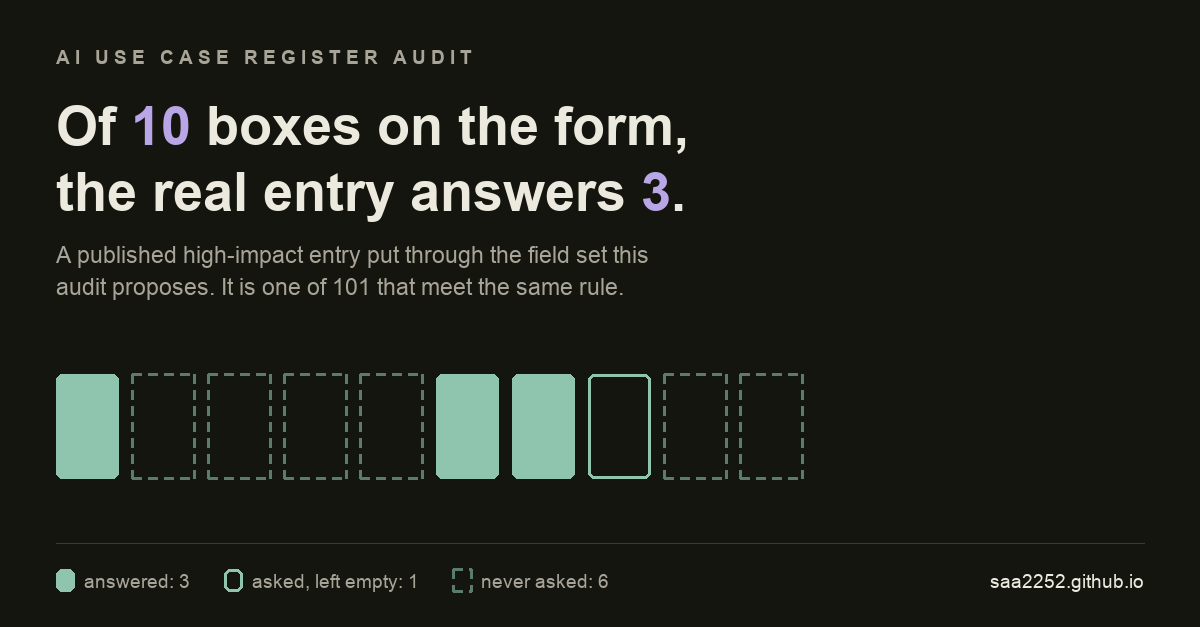
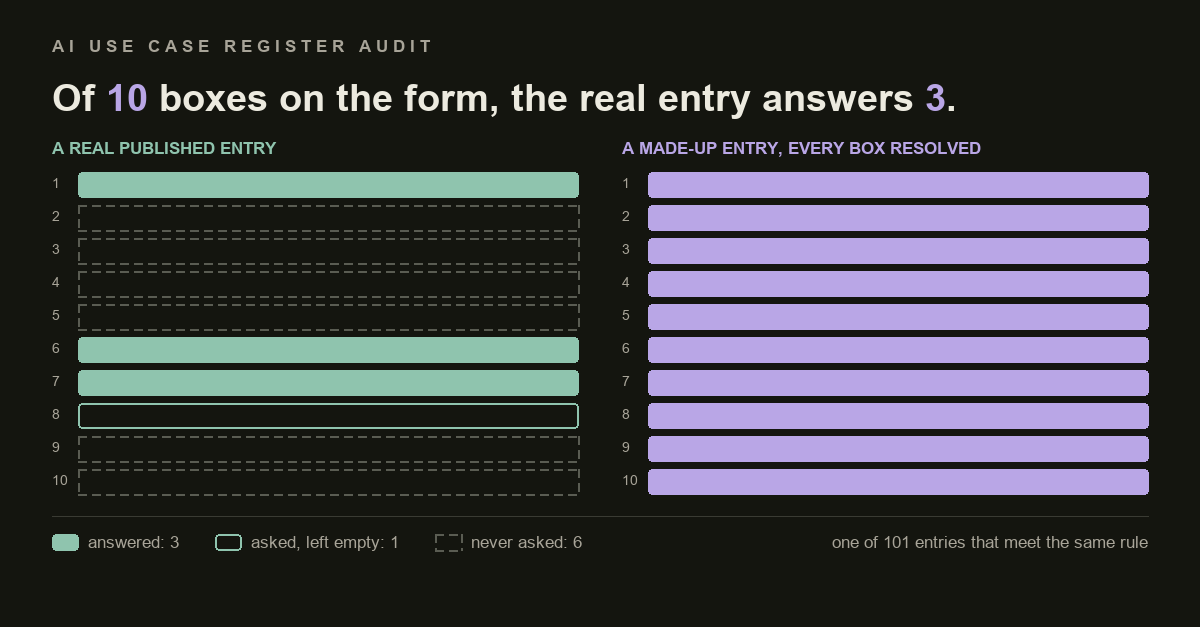
Redraw the preview card as the two forms side by side
The row of ten boxes said how many were answered and lost the thing that makes
the panel work, which is one column against the other. The card is now the
comparison: a published entry on the left with most of its boxes empty, a
made-up entry on the right with every box resolved.

Both columns are read from the published panels rather than assumed. The right
side is not drawn full because it ought to be full; it is drawn from its own
row states, so a row that stops being answered there shows up on the card. The
staleness check covers both, verified by planting a drift in the second column.

Each row keeps the state drawing the site uses: filled for a box the entry
answers, a solid outline for one the register asks and the entry leaves empty,
dashed for one the register does not collect, struck through for one it does
not put to an entry like this. Shape carries the difference, not colour.

Still names no organisation, still drawn from the findings, still 1200x627.

The alt text now describes the two forms rather than the row of boxes.

diff --git a/docs/keeping.html b/docs/keeping.html
@@ -10,7 +10,7 @@
 <meta property="og:description" content="A proposal for how a register would be kept up, written against the five things the field set does not do. Not tested against any real register.">
 <meta property="og:url" content="https://saa2252.github.io/ai-use-case-register-audit/keeping.html">
 <meta property="og:image" content="https://saa2252.github.io/ai-use-case-register-audit/assets/card.png">
-<meta property="og:image:alt" content="Ten boxes, three filled, standing for the ten questions this field set asks and the three a published entry answers.">
+<meta property="og:image:alt" content="Two forms side by side. The left is a published entry with most of its ten boxes empty. The right is a made-up entry with every box resolved.">
 <meta property="twitter:card" content="summary_large_image">
 <meta property="twitter:title" content="Keeping a register current">
 <meta property="twitter:description" content="A proposal for how a register would be kept up, written against the five things the field set does not do. Not tested against any real register.">

diff --git a/docs/obligations.html b/docs/obligations.html
@@ -10,7 +10,7 @@
 <meta property="og:description" content="What this register could hand over about the systems it flags high-impact, if someone asked.">
 <meta property="og:url" content="https://saa2252.github.io/ai-use-case-register-audit/obligations.html">
 <meta property="og:image" content="https://saa2252.github.io/ai-use-case-register-audit/assets/card.png">
-<meta property="og:image:alt" content="Ten boxes, three filled, standing for the ten questions this field set asks and the three a published entry answers.">
+<meta property="og:image:alt" content="Two forms side by side. The left is a published entry with most of its ten boxes empty. The right is a made-up entry with every box resolved.">
 <meta property="twitter:card" content="summary_large_image">
 <meta property="twitter:title" content="If someone asked about the riskiest systems">
 <meta property="twitter:description" content="What this register could hand over about the systems it flags high-impact, if someone asked.">

diff --git a/docs/index.html b/docs/index.html
@@ -10,7 +10,7 @@
 <meta property="og:description" content="An independent read of publicly published AI use case inventories.">
 <meta property="og:url" content="https://saa2252.github.io/ai-use-case-register-audit/">
 <meta property="og:image" content="https://saa2252.github.io/ai-use-case-register-audit/assets/card.png">
-<meta property="og:image:alt" content="Ten boxes, three filled, standing for the ten questions this field set asks and the three a published entry answers.">
+<meta property="og:image:alt" content="Two forms side by side. The left is a published entry with most of its ten boxes empty. The right is a made-up entry with every box resolved.">
 <meta property="twitter:card" content="summary_large_image">
 <meta property="twitter:title" content="The US government publishes a list of the AI systems its agencies use">
 <meta property="twitter:description" content="An independent read of publicly published AI use case inventories.">

diff --git a/docs/gaps.html b/docs/gaps.html
@@ -10,7 +10,7 @@
 <meta property="og:description" content="What this register does not record, and where it is easy to read wrongly.">
 <meta property="og:url" content="https://saa2252.github.io/ai-use-case-register-audit/gaps.html">
 <meta property="og:image" content="https://saa2252.github.io/ai-use-case-register-audit/assets/card.png">
-<meta property="og:image:alt" content="Ten boxes, three filled, standing for the ten questions this field set asks and the three a published entry answers.">
+<meta property="og:image:alt" content="Two forms side by side. The left is a published entry with most of its ten boxes empty. The right is a made-up entry with every box resolved.">
 <meta property="twitter:card" content="summary_large_image">
 <meta property="twitter:title" content="What the register does not tell you">
 <meta property="twitter:description" content="What this register does not record, and where it is easy to read wrongly.">

diff --git a/docs/register.html b/docs/register.html
@@ -10,7 +10,7 @@
 <meta property="og:description" content="The list the United States federal government publishes of the AI systems it uses.">
 <meta property="og:url" content="https://saa2252.github.io/ai-use-case-register-audit/register.html">
 <meta property="og:image" content="https://saa2252.github.io/ai-use-case-register-audit/assets/card.png">
-<meta property="og:image:alt" content="Ten boxes, three filled, standing for the ten questions this field set asks and the three a published entry answers.">
+<meta property="og:image:alt" content="Two forms side by side. The left is a published entry with most of its ten boxes empty. The right is a made-up entry with every box resolved.">
 <meta property="twitter:card" content="summary_large_image">
 <meta property="twitter:title" content="The register">
 <meta property="twitter:description" content="The list the United States federal government publishes of the AI systems it uses.">

diff --git a/scripts/build_card.py b/scripts/build_card.py
@@ -48,6 +48,11 @@ INK_SOFT = (168, 164, 152)
 PUB = (143, 196, 174)
 ACCENT = (185, 166, 230)
 BORDER = (58, 59, 51)
+MINE = (185, 166, 230)
+DIM = (90, 92, 82)
+
+# One row of one form, and the bar inside it.
+ROW, BAR = 33, 25
 
 # Font files are looked up rather than assumed, and the one used is recorded in
 # the stamp, so a card drawn on another machine can be told from this one.
@@ -79,7 +84,11 @@ def figures() -> dict:
         "asked_and_left_empty": head["asked_and_left_empty"],
         "does_not_apply": head["does_not_apply"],
         "meeting_the_rule": head["entries_meeting_the_rule"],
+        # The two columns, each row by its own state. The made-up entry is read
+        # the same way rather than assumed full, so a row that stops being
+        # answered there shows up on the card.
         "states": [row["state"] for row in payload["panel_one"]["rows"]],
+        "made_up": [row["state"] for row in payload["panel_two"]["rows"]],
     }
 
 
@@ -94,22 +103,38 @@ def dashed_rect(draw, box, colour, width=3, dash=9, gap=7):
         draw.line([(x1, y), (x1, min(y + dash, y1))], fill=colour, width=width)
 
 
-def draw_box(draw, box, state):
-    """One of the ten, drawn the way the site draws it.
+def draw_row(draw, box, state, tint):
+    """One row of one form, drawn the way the site draws that state.
 
-    The shapes carry the difference, not colour alone, exactly as on the page.
+    Filled for a box the entry answers. A solid outline for one the register
+    asks and the entry leaves empty. Dashed for one the register does not
+    collect. Struck through for one it does not put to an entry like this. The
+    shapes carry the difference, not colour alone, exactly as on the page.
     """
-    if state == "from_source":
-        draw.rounded_rectangle(box, radius=6, fill=PUB)
+    if state in ("from_source", "answered"):
+        draw.rounded_rectangle(box, radius=4, fill=tint)
     elif state == "not_collected":
-        dashed_rect(draw, box, (90, 124, 110))
+        dashed_rect(draw, box, DIM, width=2, dash=8, gap=6)
     elif state == "blank_in_source":
-        draw.rounded_rectangle(box, radius=6, outline=PUB, width=3)
+        draw.rounded_rectangle(box, radius=4, outline=tint, width=2)
     elif state == "does_not_apply":
-        draw.rounded_rectangle(box, radius=6, outline=PUB, width=3)
-        draw.line([(box[0] + 4, box[3] - 4), (box[2] - 4, box[1] + 4)], fill=PUB, width=3)
+        draw.rounded_rectangle(box, radius=4, outline=tint, width=2)
+        draw.line([(box[0] + 3, box[3] - 3), (box[2] - 3, box[1] + 3)], fill=tint, width=2)
+    elif state in ("not_yet_answered", "withheld"):
+        draw.rounded_rectangle(box, radius=4, outline=tint, width=2)
     else:
-        raise SystemExit(f"the panel holds a state the card cannot draw: {state}")
+        raise SystemExit(f"a panel holds a state the card cannot draw: {state}")
+
+
+def column(draw, x, width, y, states, tint, heading, font_head, font_num):
+    """One of the two forms: a heading, then its ten rows, numbered."""
+    draw.text((x, y), heading, font=font_head, fill=tint)
+    top = y + 34
+    for index, state in enumerate(states):
+        row_y = top + index * ROW
+        draw.text((x, row_y + 3), str(index + 1), font=font_num, fill=INK_SOFT)
+        draw_row(draw, (x + 26, row_y, x + width, row_y + BAR), state, tint)
+    return top + len(states) * ROW
 
 
 def build(f: dict) -> Image.Image:
@@ -117,59 +142,50 @@ def build(f: dict) -> Image.Image:
     image = Image.new("RGB", (WIDTH, HEIGHT), BG)
     draw = ImageDraw.Draw(image)
 
-    kicker = ImageFont.truetype(bold_path, 19)
-    head = ImageFont.truetype(bold_path, 54)
-    sub = ImageFont.truetype(regular_path, 23)
-    key = ImageFont.truetype(regular_path, 19)
+    kicker = ImageFont.truetype(bold_path, 17)
+    head = ImageFont.truetype(bold_path, 38)
+    col_head = ImageFont.truetype(bold_path, 17)
+    num = ImageFont.truetype(regular_path, 14)
+    key = ImageFont.truetype(regular_path, 17)
 
-    left, y = 56, 46
+    left, y = 52, 36
     draw.text((left, y), "A I   U S E   C A S E   R E G I S T E R   A U D I T",
               font=kicker, fill=INK_SOFT)
-    y += 50
+    y += 40
 
-    # The headline, with the two figures in the accent the site uses for them.
-    line_one = [("Of ", INK), (str(f["fields"]), ACCENT), (" boxes on the form,", INK)]
-    line_two = [("the real entry answers ", INK), (str(f["answered"]), ACCENT), (".", INK)]
-    for line in (line_one, line_two):
-        x = left
-        for text, colour in line:
-            draw.text((x, y), text, font=head, fill=colour)
-            x += draw.textlength(text, font=head)
-        y += 66
+    line_one = [("Of ", INK), (str(f["fields"]), ACCENT),
+                (" boxes on the form, the real entry answers ", INK),
+                (str(f["answered"]), ACCENT), (".", INK)]
+    x = left
+    for text, colour in line_one:
+        draw.text((x, y), text, font=head, fill=colour)
+        x += draw.textlength(text, font=head)
+    y += 62
 
-    y += 14
-    draw.text((left, y), "A published high-impact entry put through the field set this",
-              font=sub, fill=INK_SOFT)
-    draw.text((left, y + 32),
-              f"audit proposes. It is one of {f['meeting_the_rule']} that meet the same rule.",
-              font=sub, fill=INK_SOFT)
-    y += 132
+    # The two forms, side by side, which is the comparison the page makes.
+    gutter = 44
+    col_w = (WIDTH - left * 2 - gutter) // 2
+    column(draw, left, col_w, y, f["states"], PUB,
+           "A REAL PUBLISHED ENTRY", col_head, num)
+    bottom = column(draw, left + col_w + gutter, col_w, y, f["made_up"], MINE,
+                    "A MADE-UP ENTRY, EVERY BOX RESOLVED", col_head, num)
 
-    # The ten boxes, in the panel's own order. Sized to sit between the text
-    # above and the key below without a dead band under them.
-    box_w, box_h, gap = 62, 104, 14
-    for index, state in enumerate(f["states"]):
-        x0 = left + index * (box_w + gap)
-        draw_box(draw, (x0, y, x0 + box_w, y + box_h), state)
-
-    # The key, drawn with the same shapes rather than with symbols, so a reader
-    # matches it to the boxes above by looking rather than by guessing.
-    foot = HEIGHT - 58
-    draw.line([(left, foot - 26), (WIDTH - left, foot - 26)], fill=BORDER, width=1)
+    foot = bottom + 30
+    draw.line([(left, foot - 16), (WIDTH - left, foot - 16)], fill=BORDER, width=1)
     x = left
     legend = [
-        ("from_source", f"answered: {f['answered']}"),
-        ("blank_in_source", f"asked, left empty: {f['asked_and_left_empty']}"),
-        ("not_collected", f"never asked: {f['not_collected']}"),
+        ("from_source", PUB, f"answered: {f['answered']}"),
+        ("blank_in_source", PUB, f"asked, left empty: {f['asked_and_left_empty']}"),
+        ("not_collected", PUB, f"never asked: {f['not_collected']}"),
     ]
-    for state, label in legend:
-        draw_box(draw, (x, foot, x + 18, foot + 22), state)
-        draw.text((x + 28, foot + 1), label, font=key, fill=INK_SOFT)
-        x += 28 + int(draw.textlength(label, font=key)) + 34
+    for state, tint, label in legend:
+        draw_row(draw, (x, foot + 2, x + 26, foot + 18), state, tint)
+        draw.text((x + 36, foot), label, font=key, fill=INK_SOFT)
+        x += 36 + int(draw.textlength(label, font=key)) + 36
 
-    tail = "saa2252.github.io"
-    draw.text((WIDTH - left - draw.textlength(tail, font=key), foot + 1),
-              tail, font=key, fill=INK)
+    tail = f"one of {f['meeting_the_rule']} entries that meet the same rule"
+    draw.text((WIDTH - left - draw.textlength(tail, font=key), foot), tail,
+              font=key, fill=INK_SOFT)
     return image
 
 

diff --git a/tests/test_preview_card.py b/tests/test_preview_card.py
@@ -17,7 +17,8 @@ and compared here.
 
 Verified by planting the failure: changing any figure in the stamp fails the
 staleness check by name, and making the card script read an agency column fails
-the naming check.
+the naming check. Both columns are covered, so a row that stops being answered
+on either side shows up here rather than on the card.
 """
 
 import json
@@ -102,6 +103,7 @@ def test_the_card_has_not_drifted_from_the_findings():
         "does_not_apply": head["does_not_apply"],
         "meeting_the_rule": head["entries_meeting_the_rule"],
         "states": [row["state"] for row in payload["panel_one"]["rows"]],
+        "made_up": [row["state"] for row in payload["panel_two"]["rows"]],
     }
     stale = [k for k, v in now.items() if drawn.get(k) != v]
     assert not stale, (

diff --git a/scripts/build_site.py b/scripts/build_site.py
@@ -140,8 +140,9 @@ def preview(file, title, heading, lede) -> str:
         ("og:description", description),
         ("og:url", address),
         ("og:image", SITE_URL + CARD),
-        ("og:image:alt", "Ten boxes, three filled, standing for the ten questions this "
-                         "field set asks and the three a published entry answers."),
+        ("og:image:alt", "Two forms side by side. The left is a published entry with "
+                         "most of its ten boxes empty. The right is a made-up entry with "
+                         "every box resolved."),
         ("twitter:card", "summary_large_image"),
         ("twitter:title", heading or title),
         ("twitter:description", description),
